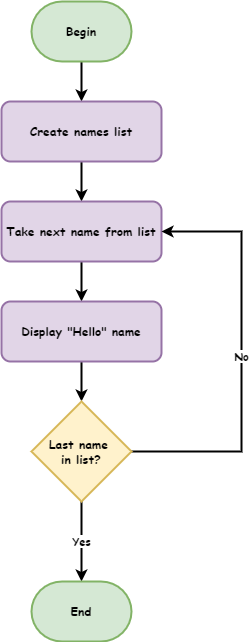
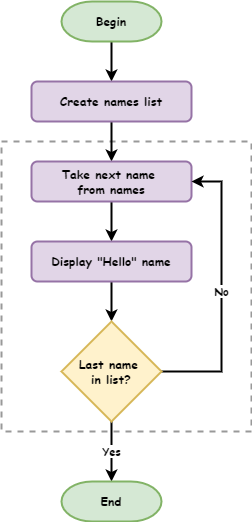
Flowcharts up to lesson 4 part 1 finished

diff --git a/lesson_3.md b/lesson_3.md
@@ -140,6 +140,10 @@ PRIMM
 - **Run** the code and see if your predictions were correct.
 - `sides`, `length` and `degrees` are all **variables**. Let's **investigate** the code and see how they are used.
 
+First, a flowchart of our adjusted program:
+
+<img align="left" src="assets/flowchart_lesson_3_1.png">
+
 Code breakdown:
 
 - `sides = 3` creates the variable `sides` and assigns the value of `3` to it.
@@ -188,7 +192,7 @@ for index in range(sides):
 
 In creating our hexagon, how did we know that degrees needed to be 60?
 
-You may have worked it out in your head, or you calculated it using a calculator. But both of these approaches are flawed.
+You may have worked it out in your head, or used a calculator. But both of these approaches are flawed.
 
 - head calculations can be incorrect
 - time is wasted in getting a calculator.
@@ -219,9 +223,9 @@ for index in range(sides):
 
 Another good programming practice is to remove unnecessary variables.
 
-Do we need the `degrees` variable? We could simply place the calculation inside the `for` loop.
+Do we need the `degrees` variable? Could we simply place the calculation inside the `for` loop?
 
-If remove line `5` by moving the calculation to line `10`, our code would look like this:
+If we remove line `5` by moving the calculation to line `10`, our code would look like this:
 
 ```python
 import turtle
@@ -256,6 +260,10 @@ for index in range(sides):
     my_ttl.forward(length)
     my_ttl.left(DEGREES_IN_CIRCLE / sides)
 ```
+
+The flowchart for this code now looks like:
+
+<img align="left" src="assets/flowchart_lesson_3_2.png">
 
 In line `6` we have created another variable called `DEGREES_IN_CIRCLE` and assigned it `360`. We have capitalised the name because the value of `360` will never change, no matter what shape we wish to draw. We call variables whose values doesn't change **constants**. In Python's naming conventions, constants are capitalised.
 
@@ -470,7 +478,7 @@ length = 100
 my_ttl.goto(0, 125)
 
 # draw shape
-# for i in range(sides):
+# for index in range(sides):
 #    my_ttl.forward(length)
 #    my_ttl.left(360 / sides)
 ```
@@ -516,10 +524,8 @@ my_ttl.goto(0, 0)
 sides = 6
 length = 100
 
-my_ttl.goto(0, 0)
-
 # draw shape
-for i in range(sides):
+for index in range(sides):
     my_ttl.forward(length)
     my_ttl.left(360 / sides)
 ```
@@ -566,15 +572,17 @@ my_ttle.pendown()
 sides = 6
 length = 100
 
-my_ttl.goto(0, 0)
-
 # draw shape
-for i in range(sides):
+for index in range(sides):
     my_ttl.forward(length)
     my_ttl.left(360 / sides)
 ```
 
 **Predict** what you think will happen, then **run** the code.
+
+Here is the flowchart to help with your prediction
+
+<img align="left" src="assets/flowchart_lesson_3_3.png">
 
 ## Part 2 Exercise
 
@@ -596,10 +604,10 @@ window.setup(screen, screen)
 my_ttl = turtle.Turtle()
 my_ttl.shape("dot")
 
-##################################
-## Using the turtle command you ##
-## have learnt, draw a house.   ##
-##################################
+###################################
+## Using the turtle commands you ##
+## have learnt, draw a house.    ##
+###################################
 ```
 
 Follow the instructions in the comments and use your turtle knowledge to draw a house. Remember to apply the DRY principle.

diff --git a/lesson_4.md b/lesson_4.md
@@ -21,7 +21,11 @@ With functions, we move a block of code outside of the main program sequence, th
 
 To understand this more clearly, we will start with my solution for **lesson_3_ex_4.py**.
 
-Type the code below into a new file and save in as **lesson_4_pt_1.py**.
+Here is the flowchart for the solution:
+
+<img align="left" src="assets/flowchart_lesson_4_1.png">
+
+Here is the code. Type it into a new file and save in as **lesson_4_pt_1.py**.
 
 ```python
 import turtle
@@ -453,6 +457,22 @@ Notice that our line count is down from the original `71` to `63`.
 > - If a function is tested and works, you don't have to testing it again, unless your change the function.
 > - If your program has errors, and your functions have passed their tests, then you know your error is elsewhere in the code.
 
+### Functions in Flowcharts
+
+Flowcharts normally don't represent whole programs, they represent algorithms. 
+
+> **Algorithms**
+>
+> Algorithms are basically a set of rules to be followed to solve a problem. A cake recipe is an algorithm to bake a cake. You follow an algorithm to perform long division in maths. In computers, you code instructions are the algorithms. 
+
+When a program is broken into smaller algorithms (eg. functions) you create a flowchart for each algorithm, and then show when one algorithm calls another algorithm.
+
+We show the name of the function in the terminator symbol, with the first algorithm being called **main**.
+
+Here is the flowchart of the code with the `move_pen` function. The function calls use the procedure symbol (I have coloured them blue to make them stand out).
+
+<img align="left" src="assets/flowchart_lesson_4_2.png">
+
 ### Shape functions
 
 When we first looked for repetition, we also identified the drawing shapes repetition. Lets make a function to draw squares.
@@ -615,6 +635,10 @@ That's our final code:
 - Down from `71` lines to `59` lines.
 - Easier to read.
 - Easier to test and troubleshoot errors.
+
+Maybe the easiest way to see the improvement in our code is to look at the flowchart.
+
+<img align="left" src="assets/flowchart_lesson_4_3.png">
 
 ## Part 1 Exercises
 

diff --git a/lesson_2.md b/lesson_2.md
@@ -158,7 +158,7 @@ Before we do, we need to learn about two more flowchart symbols:
 
 <img align="left" src="./assets/flow_charts_symbol_2.png">
 
-Now lets look at the `for` loop flowchart.
+Now let's look at the `for` loop flowchart. The symbols within the dotted box are the `for` loop. Note, the dotted box has been added to help identify the `for` loop structure, and is not a normal flowchart symbol. 
 
 <img align="left" src="./assets/flowcharts_for_loop.png">
 
@@ -349,8 +349,9 @@ my_ttl = turtle.Turtle()
 ##############################
 ```
 
-After line `9`, as the comments says, write code that will create a square but only use 3 lines to do this (hint: try a `for` loop).
+After line `9`, as the comments says, write code that will create a square but only use 3 lines to do this (hint: try a `for` loop). The following flowchart should assist.
 
+<img align="left" src="assets/flowchart_lesson_2_ex_1.png">
 
 ### Exercise 2
 
